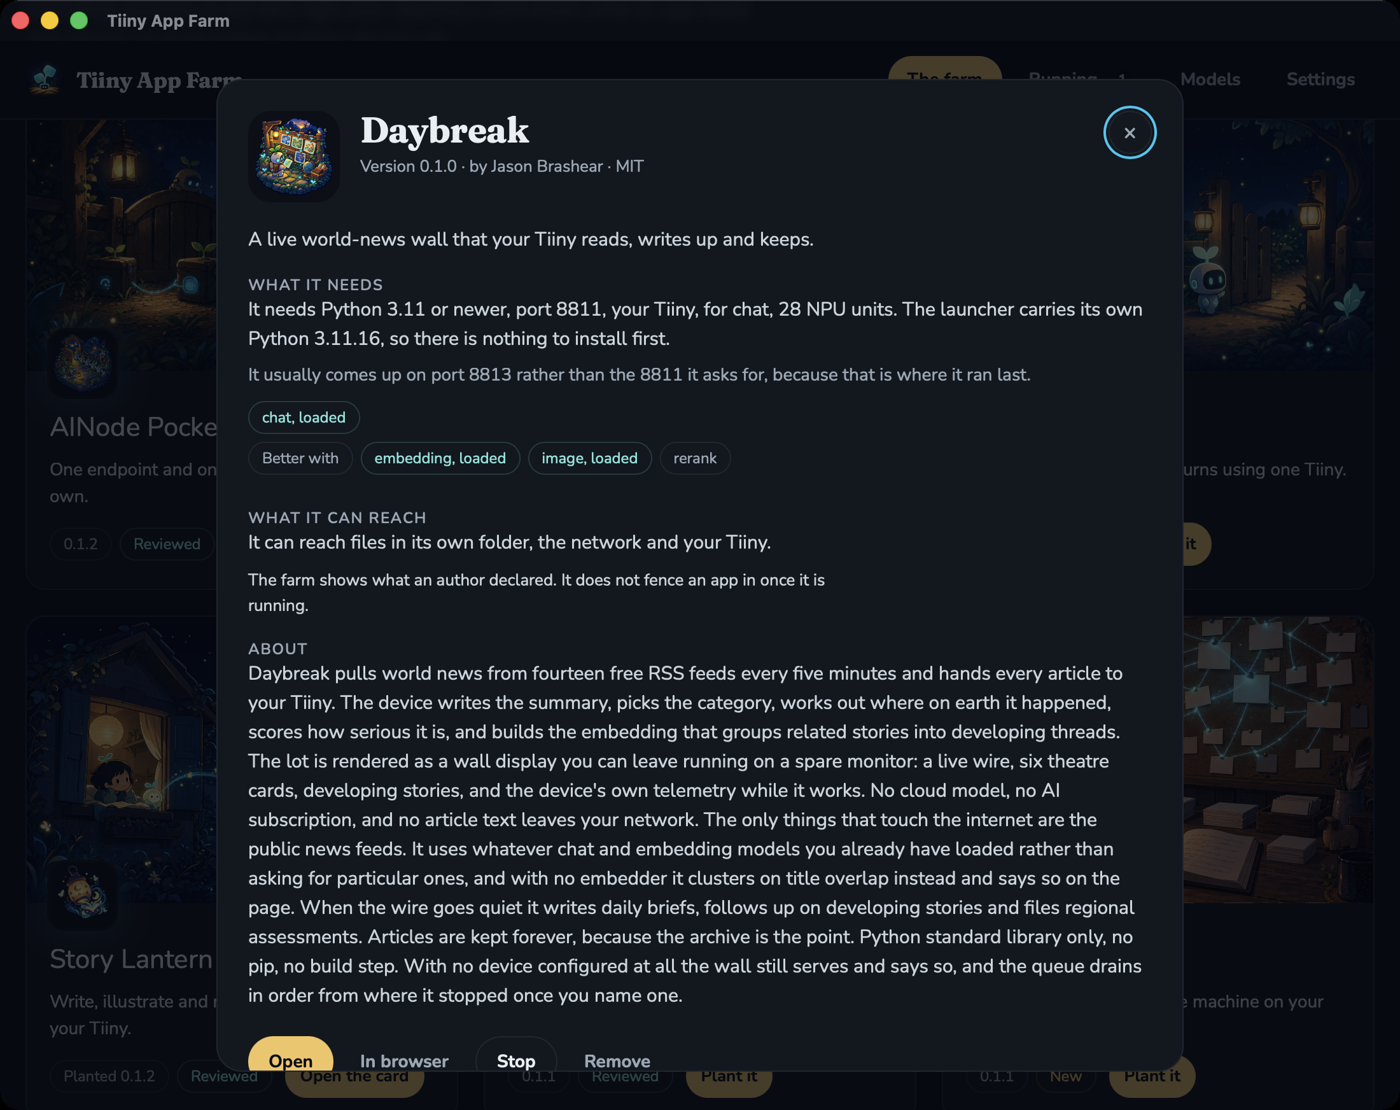
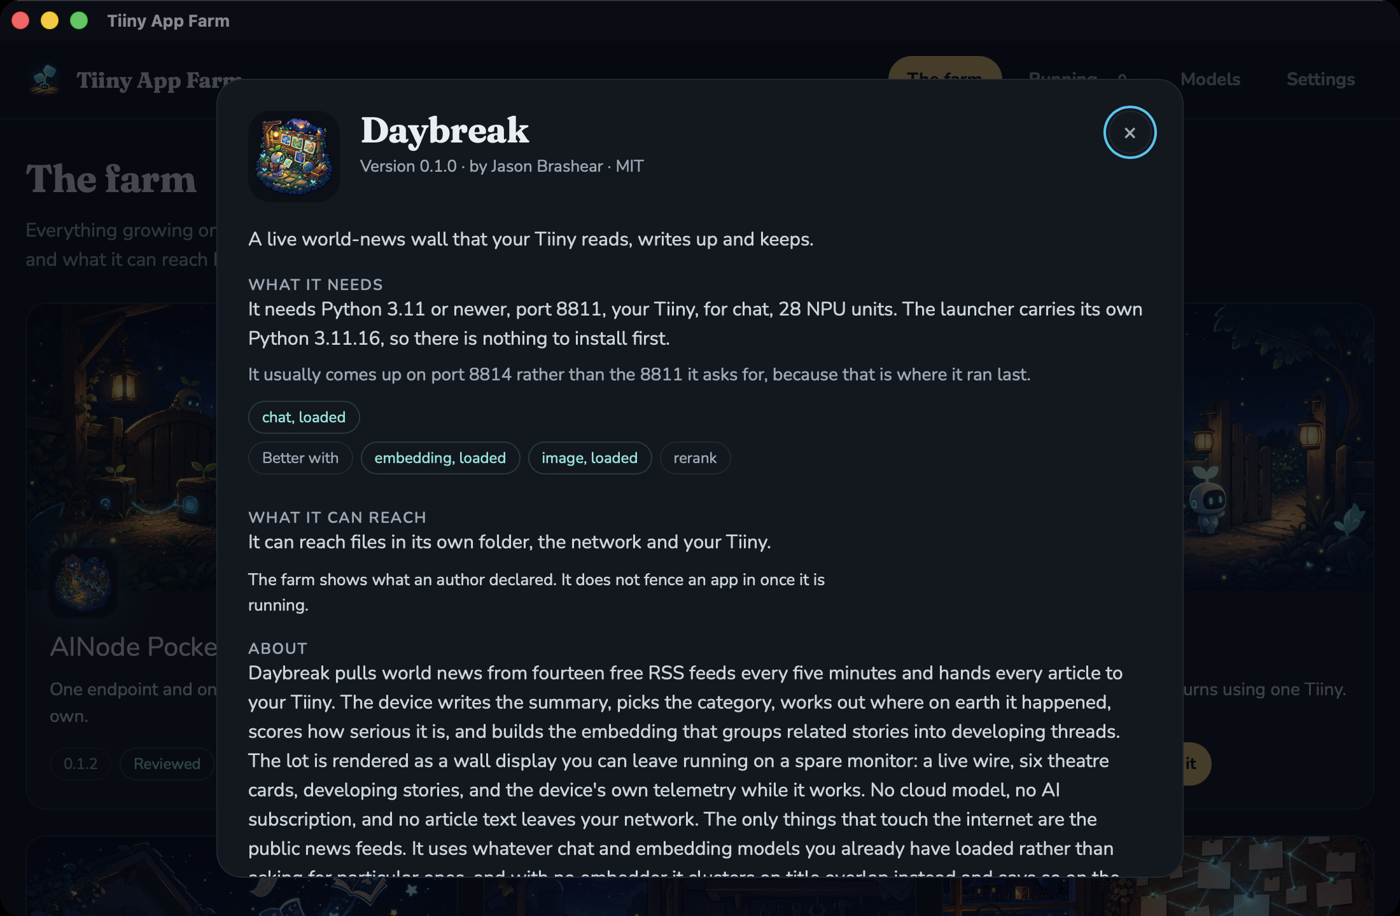
The card says where a stopped app will come up, which is when it matters
farm 0.1.17 puts usualPort on every installed row rather than only on the
running ones, so the window reads it from there and prefers the running row
when there is one. Where an app will come up is a question somebody asks
before they press Start, so the answer belonged on a stopped card and was
only on a running one.

The picture is a stopped Daybreak that last ran on 8814 while its manifest
asks for 8811.

diff --git a/ui/app.js b/ui/app.js
@@ -359,16 +359,20 @@ function renderCardState() {
 
 // Where this app actually comes up.
 //
-// Since farm 0.1.16 the engine remembers the port an app last took and tries
-// that one first, because an app's origin is its port and moving it throws away
-// the logins and the local storage a browser kept for it. So the number in the
-// manifest is what it asks for, and this is where it really is. Saying both
-// only helps when they differ; when they agree the needs sentence has already
-// said it.
+// The engine remembers the port an app last took and tries that one first,
+// because an app's origin is its port and moving it throws away the logins and
+// the local storage a browser kept for it. So the number in the manifest is
+// what it asks for, and this is where it really comes up. Saying both only
+// helps when they differ; when they agree the needs sentence has already said
+// it.
 function renderCardPort(id) {
   const line = $("card-port");
+  // Since farm 0.1.17 every installed row carries this, running or not, which
+  // is the case that matters: the question "where will this come up?" is one
+  // somebody asks before they press Start, not after.
   const live = farm.running.find((row) => row.id === id);
-  const usual = live && live.usualPort;
+  const listed = farm.installed.find((row) => row.id === id);
+  const usual = (live && live.usualPort) || (listed && listed.usualPort) || null;
   const asked = ((farm.manifests.get(id) || {}).requires || {}).ports || [];
   if (!usual || asked.includes(usual)) {
     line.hidden = true;

diff --git a/docs/shots/README.md b/docs/shots/README.md
@@ -6,7 +6,7 @@ them. Taken on a MacBook Pro (Apple M5 Max, macOS 26.6.2) on 2026-09-14 from the
 ad hoc signed 0.1.0 build against Jason's Tiiny at 172.17.7.177, with the engine
 pointed at a scratch home so nothing of his was touched. Pictures 01 to 15 were
 taken against engine farm 0.1.13, 16 to 23 against farm 0.1.14, 24 to 27 against farm 0.1.15
-from PyPI, and 28 against farm 0.1.16.
+from PyPI, and 28 against farm 0.1.17.
 
 The window is 1100 by 720 points in all of them except `10-smallest-size.png`
 and `12-smallest-first-run.png`, which are the smallest size the launcher
@@ -42,7 +42,7 @@ bar menu rather than the window.
 | `25-models-after-a-load.png` | The same list a minute later, after Load was pressed on the 4 unit OCR model. It has gone from the list because it is loaded now, and every shortfall underneath it has grown by four: `openai/gpt-oss-20b` had a live button at exactly 32 units and now says it is 4 short. Nothing was typed to make that happen. |
 | `26-npu-after-a-load.png` | The budget at the top of the same pane, 28 of 100 free, with the bar moved to match. |
 | `27-load-and-start.png` | Load and start on an app whose chat model was not loaded. The farm loaded one and then started the app, and the window says which one: Daybreak is running on port 8811, and it loaded Qwen/Qwen3-8B on the Tiiny first. |
-| `28-usual-port.png` | Daybreak's card while it is running on a port its manifest does not ask for. The needs line says the 8811 it asks for; the line under it says it usually comes up on 8813, because that is where it ran last. Made by starting it with --port 8813 so the two numbers really disagreed. When they agree the second line is not drawn. |
+| `28-usual-port.png` | Daybreak's card while it is stopped, after a run on a port its manifest does not ask for. The needs line says the 8811 it asks for; the line under it says it usually comes up on 8813, because that is where it ran last. Made by starting it with --port 8814, stopping it, and opening the card, which is the case that matters: where an app will come up is a question somebody asks before pressing Start. When the two numbers agree the second line is not drawn. |
 
 Three serials are blacked out, in `01`, `11` and `12`. They identify one person's
 device, they are not something the launcher handles, and they do not need to

diff --git a/docs/LAUNCHER-4-REPORT.md b/docs/LAUNCHER-4-REPORT.md
@@ -37,12 +37,13 @@ with `--port` so the two numbers really disagreed, then opening its card.
 When the two agree the line is not drawn at all. The needs sentence has already
 said the number, and a second line repeating it is noise.
 
-**One limit, and it is the engine's.** `usualPort` reaches the launcher only on
-the rows of `farm status --json`, which lists running apps. `farm list --json`
-does not carry it, and there is no per-app command that answers for a stopped
-one. So the line appears for an app that is running and not for one that is
-stopped, which is the opposite of when somebody would most like to know. Fixing
-that is one field on the `list` rows in the engine, not work in this window.
+**The limit this had, and how it went.** Against farm 0.1.16 `usualPort` reached
+the launcher only on the rows of `farm status --json`, which lists running apps,
+so the line appeared for a running app and not for a stopped one, which is the
+opposite of when somebody would like to know. farm 0.1.17 puts the field on
+every installed row, and the window now reads it from there, preferring the
+running row when there is one. The picture in `docs/shots/28-usual-port.png` is
+a stopped app.
 
 ## 3. A way to get a signed build to people
 
